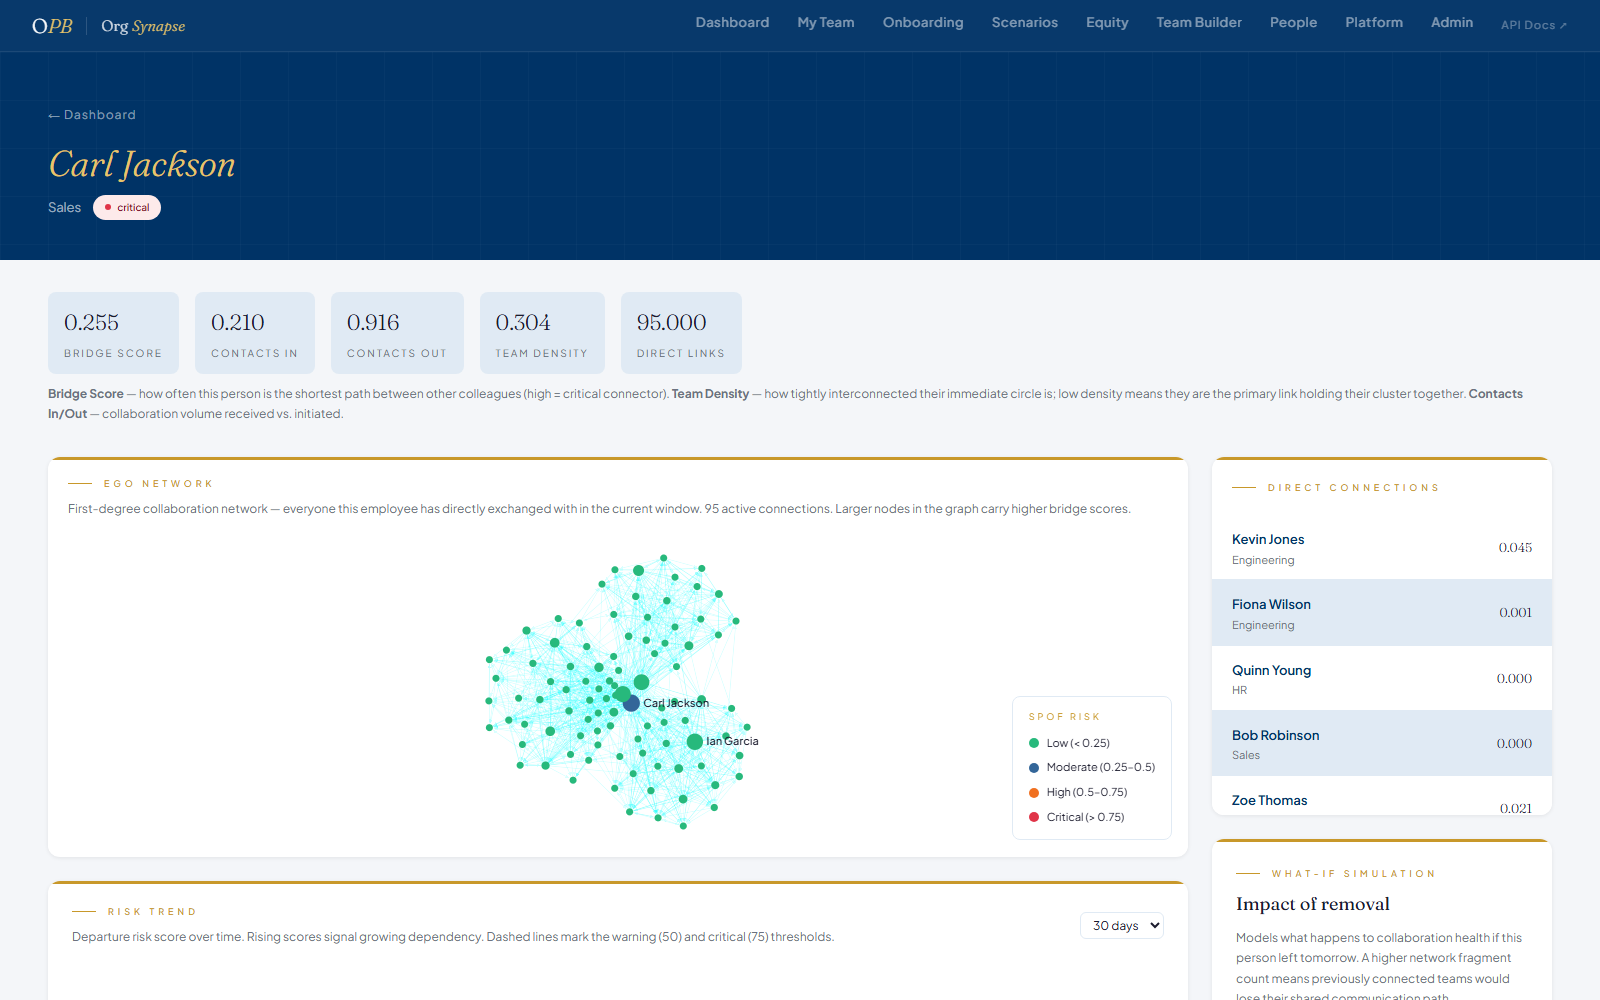
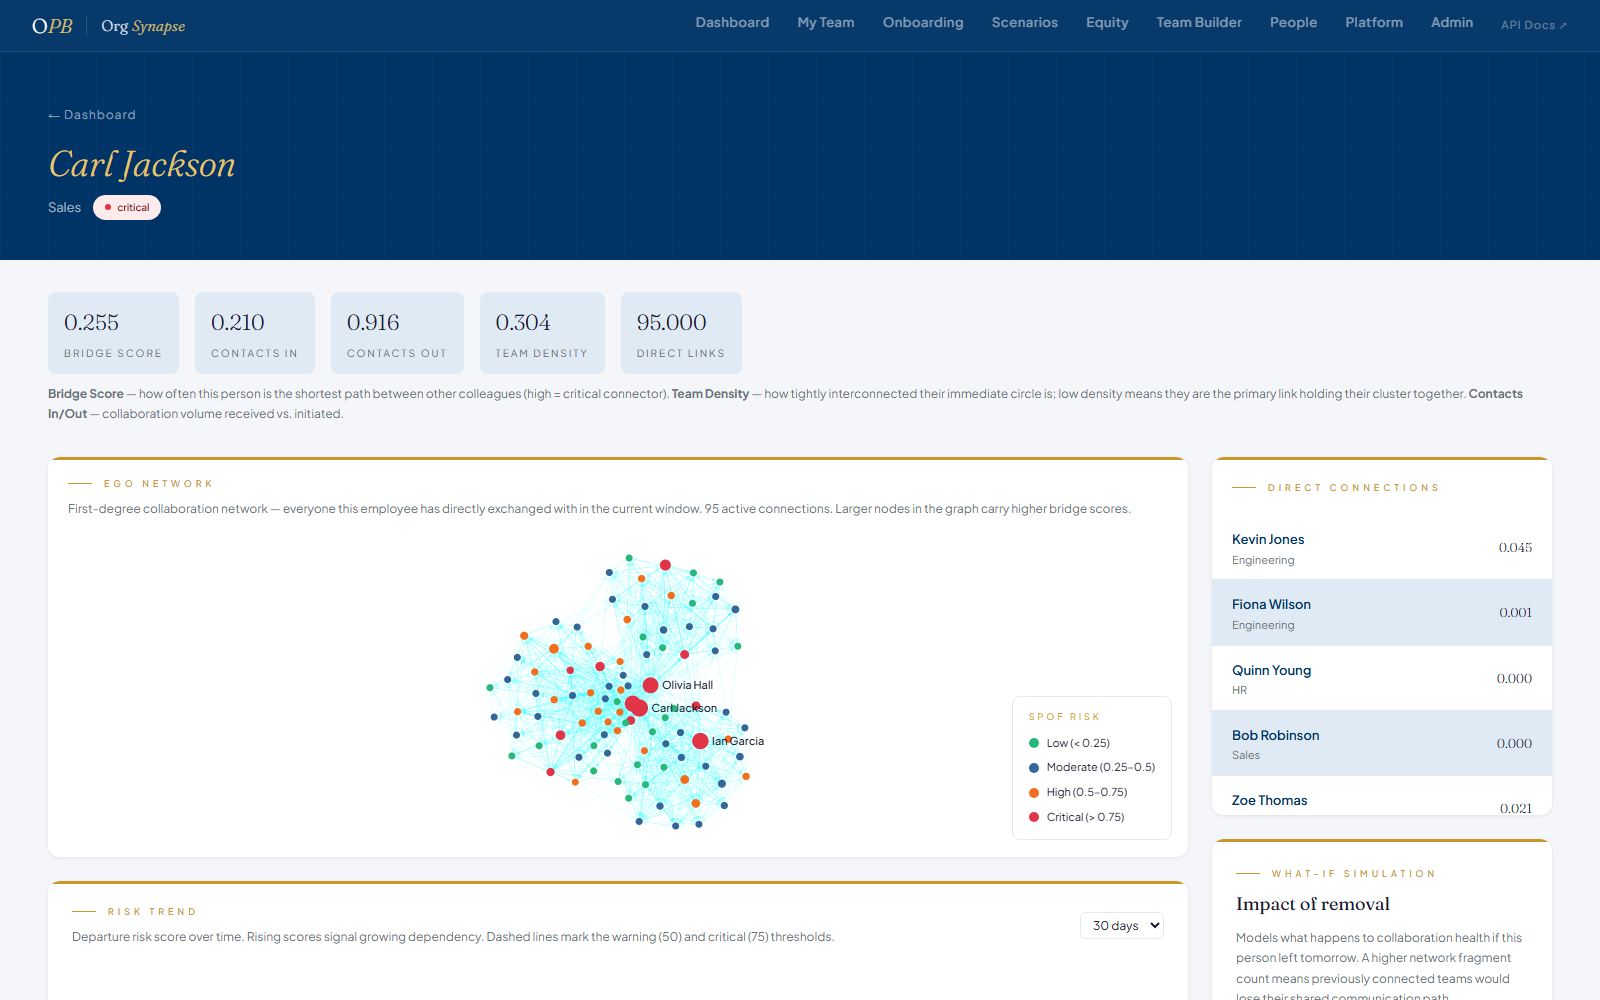
Color ego-network chart by real SPOF score, not betweenness
The ego chart on the employee page mapped spof_score = betweenness, so nodes
were colored by bridging under a "SPOF risk" legend with 0.25/0.5/0.75
thresholds that betweenness rarely reaches: nearly everyone showed green "Low".

- /graph/employee/{id}: neighbours are now EgoNode and carry their latest
  spof_score / flag / risk_scored_at, via the same lookup as the centre node,
  so every node in the chart comes from the same scoring run.
- EmployeeDetail: pass nodes through unchanged (size still = betweenness).
- OrgGraph: a missing score renders neutral grey with a "No score" legend
  entry instead of defaulting to green "Low"; Dashboard keeps unscored nodes
  null for the same reason.

Verified on the seeded app: Carl Jackson's 95 neighbours now color as
11 critical / 23 high / 39 moderate / 22 low. Tests: 512 passed, 13 skipped.

Changed region(s): [[0.2812, 0.558, 0.4688, 0.837]]

diff --git a/frontend/src/components/OrgGraph.jsx b/frontend/src/components/OrgGraph.jsx
@@ -5,8 +5,15 @@ import { SigmaContainer, useLoadGraph, useRegisterEvents } from "@react-sigma/co
 import { useWorkerLayoutForceAtlas2 } from "@react-sigma/layout-forceatlas2";
 import "@react-sigma/core/lib/react-sigma.min.css";
 
+// No score on record. Deliberately neutral grey, never the green "low" color:
+// a missing score is not evidence of low structural risk.
+const NO_SCORE_COLOR = "#B8BEC7";
+
+const hasScore = (score) => typeof score === "number" && Number.isFinite(score);
+
 // SPOF score → node color per BRAND.md spec
 function spofColor(score) {
+  if (!hasScore(score)) return NO_SCORE_COLOR;
   if (score > 0.75) return "#E03448";
   if (score > 0.5)  return "#F07020";
   if (score > 0.25) return "#336699";
@@ -30,7 +37,7 @@ function GraphLoader({ nodes, edges }) {
       graph.addNode(n.employee_id, {
         label: n.name,
         size: spofSize(n.betweenness ?? 0),
-        color: spofColor(n.spof_score ?? 0),
+        color: spofColor(n.spof_score),
         x: Math.cos(angle) * 50,
         y: Math.sin(angle) * 50,
         employeeId: n.employee_id,
@@ -227,6 +234,7 @@ export default function OrgGraph({ nodes = [], edges = [], style }) {
           { color: "#336699", label: "Moderate (0.25–0.5)" },
           { color: "#F07020", label: "High  (0.5–0.75)" },
           { color: "#E03448", label: "Critical  (> 0.75)" },
+          ...(nodes.some((n) => !hasScore(n.spof_score)) ? [{ color: NO_SCORE_COLOR, label: "No score" }] : []),
         ].map(({ color, label }) => (
           <div key={label} style={{ display: "flex", alignItems: "center", gap: "8px" }}>
             <span

diff --git a/frontend/src/pages/EmployeeDetail.jsx b/frontend/src/pages/EmployeeDetail.jsx
@@ -261,10 +261,10 @@ export default function EmployeeDetail() {
   const neighbors = egoData?.neighbors ?? [];
   const egoEdges = egoData?.edges ?? [];
 
-  // Build mini ego-graph nodes/edges for Sigma
-  const egoNodes = employee
-    ? [employee, ...neighbors].map((n) => ({ ...n, spof_score: n.betweenness ?? 0 }))
-    : [];
+  // Mini ego-graph for Sigma. Color = real SPOF score from the API (null when the
+  // person has no score on record → OrgGraph renders "no score", not "low").
+  // Node size still encodes betweenness, as the panel copy says.
+  const egoNodes = employee ? [employee, ...neighbors] : [];
 
   const chartData = (historyData?.history ?? []).map((p) => ({
     date: format(new Date(p.scored_at), "MMM d"),

diff --git a/frontend/src/pages/Dashboard.jsx b/frontend/src/pages/Dashboard.jsx
@@ -100,7 +100,8 @@ export default function Dashboard() {
 
   // Merge spof_score from risk_scores into graph nodes for color coding
   const scoreMap = Object.fromEntries(scores.map((s) => [s.employee_id, s.spof_score]));
-  const nodes = rawNodes.map((n) => ({ ...n, spof_score: scoreMap[n.employee_id] ?? 0 }));
+  // Unscored employees stay null so OrgGraph shows them as "no score", not "low".
+  const nodes = rawNodes.map((n) => ({ ...n, spof_score: scoreMap[n.employee_id] ?? null }));
   const communityCount = communityData?.community_count ?? "—";
   const siloCount = communityData?.communities?.filter((c) => c.is_silo).length ?? "—";
 

diff --git a/tests/unit/test_api.py b/tests/unit/test_api.py
@@ -213,6 +213,31 @@ def test_ego_network_node_carries_spof_flag(client):
     assert centre["risk_scored_at"] == _SNAPSHOT_DATE.isoformat()
 
 
+def test_ego_network_neighbors_carry_real_spof_score(client):
+    """Regression: the ego chart colored nodes by betweenness under a 'SPOF risk' legend.
+    Neighbours must carry their own spof_score (null when unscored)."""
+    scored = {**_NODE_ROWS[1], "spof_score": 0.62, "flag": "warning", "risk_scored_at": _SNAPSHOT_DATE}
+    unscored = {
+        **_NODE_ROWS[1],
+        "employee_id": _EMP_C,
+        "name": "Carol",
+        "spof_score": None,
+        "flag": None,
+        "risk_scored_at": None,
+    }
+    ego = {"node": _NODE_ROWS[0], "neighbors": [scored, unscored], "edges": _EDGE_ROWS}
+    with (
+        patch("api.routers.graph.queries.fetch_latest_snapshot_date", return_value=_SNAPSHOT_DATE),
+        patch("api.routers.graph.queries.fetch_ego_network", return_value=ego),
+    ):
+        resp = client.get(f"/graph/employee/{_EMP_A}")
+    assert resp.status_code == 200
+    by_id = {n["employee_id"]: n for n in resp.json()["neighbors"]}
+    assert by_id[scored["employee_id"]]["spof_score"] == 0.62
+    assert by_id[scored["employee_id"]]["spof_score"] != scored["betweenness"]
+    assert by_id[unscored["employee_id"]]["spof_score"] is None
+
+
 def test_ego_network_unscored_employee_has_null_flag_not_normal(client):
     """No risk score on record must surface as null (UI: 'unknown'), never 'normal'."""
     node = {**_NODE_ROWS[0], "spof_score": None, "flag": None, "risk_scored_at": None}

diff --git a/api/db.py b/api/db.py
@@ -170,13 +170,26 @@ def fetch_ego_network(
                     gs.degree_in,
                     gs.degree_out,
                     gs.clustering,
-                    gs.community_id
+                    gs.community_id,
+                    rs.spof_score,
+                    rs.flag,
+                    rs.scored_at::date AS risk_scored_at
                 FROM graph_snapshots gs
                 JOIN employees e ON gs.employee_id = e.id
+                -- Same lookup as the centre node, so every node in the ego
+                -- chart is colored from the same scoring run (NULLs if unscored).
+                LEFT JOIN LATERAL (
+                    SELECT r.spof_score, r.flag, r.scored_at
+                    FROM risk_scores r
+                    WHERE r.employee_id = gs.employee_id
+                      AND r.scored_at::date <= %s
+                    ORDER BY r.scored_at DESC
+                    LIMIT 1
+                ) rs ON TRUE
                 WHERE gs.snapshot_date = %s
                   AND gs.employee_id = ANY(%s::uuid[])
                 """,
-                (snapshot_date, neighbor_ids),
+                (snapshot_date, snapshot_date, neighbor_ids),
             )
             neighbors = [dict(r) for r in cur.fetchall()]
     else:

diff --git a/api/models/schemas.py b/api/models/schemas.py
@@ -56,7 +56,7 @@ class CommunitiesResponse(BaseModel):
 
 
 class EgoNode(NodeMetrics):
-    """Centre node of an ego network, enriched with its latest SPOF risk.
+    """Ego-network node (centre or neighbour), enriched with its latest SPOF risk.
 
     ``flag`` / ``spof_score`` are None when the employee has no risk score on or
     before the snapshot date — clients must render that as *unknown*, never as
@@ -72,7 +72,7 @@ class EgoNetwork(BaseModel):
     employee_id: str
     snapshot_date: date
     node: EgoNode
-    neighbors: list[NodeMetrics]
+    neighbors: list[EgoNode]
     edges: list[GraphEdge]
 
 

diff --git a/api/routers/graph.py b/api/routers/graph.py
@@ -125,7 +125,7 @@ def get_employee_ego_network(
         employee_id=employee_id,
         snapshot_date=snapshot_date,
         node=EgoNode(**ego["node"]),
-        neighbors=[NodeMetrics(**n) for n in ego["neighbors"]],
+        neighbors=[EgoNode(**n) for n in ego["neighbors"]],
         edges=[GraphEdge(**e) for e in ego["edges"]],
     )
 

diff --git a/docs/LESSONS_LEARNED.md b/docs/LESSONS_LEARNED.md
@@ -109,7 +109,7 @@ Observed while capturing the screenshots in these docs (seeded demo, 120 employe
 ### 3.1 The riskiest person displayed as "normal" ✅
 **What happened:** On the employee profile, the badge reads `employee.spof_flag ?? employee.flag ?? "normal"`. `/graph/employee/{id}` returns neither field, so **every profile shows "normal"**. That includes Carl Jackson, the #1 SPOF in the org at 0.90, shown as critical in the roster (see [employee-detail.png](screenshots/employee-detail.png)). The badge component also has no style for `critical_uncertain` or `elevated`.
 **Lesson:** Never default a risk label to the safe value. Show "unknown" when the data is missing.
-**Changed:** the endpoint returns the latest `spof_score`, `flag` and `risk_scored_at` for the centre node, and a shared [`spofFlag.js`](../frontend/src/lib/spofFlag.js) styles all six flags, with "unknown" when none is on record. *Still open:* the ego-network chart colors nodes by betweenness while its legend says "SPOF risk".
+**Changed:** the endpoint returns the latest `spof_score`, `flag` and `risk_scored_at` for the centre node, and a shared [`spofFlag.js`](../frontend/src/lib/spofFlag.js) styles all six flags, with "unknown" when none is on record. The same problem showed up in the ego-network chart, which colored nodes by *betweenness* under a "SPOF risk" legend, so nearly everyone looked green. Neighbours now carry their own latest SPOF score from the same scoring run, and `OrgGraph` draws unscored people in neutral grey with a "No score" legend entry instead of green "Low".
 
 ### 3.2 Two "engagement" signals that disagree 🟡
 **What happened:** The roster shows many direct reports with **High** leave risk (derived from entropy trend). The manager view for the same team shows all 34 as **Engaged** ([manager-view.png](screenshots/manager-view.png)).
@@ -153,7 +153,7 @@ Observed while capturing the screenshots in these docs (seeded demo, 120 employe
 
 ## 5. Open items, ranked
 
-Resolved in November 2026: dependency pins and boot smoke test (2.1), tenants provisioned from migrations (2.2), profile risk badge (3.1), equity small-group suppression (3.5).
+Resolved in November 2026: dependency pins and boot smoke test (2.1), tenants provisioned from migrations (2.2), profile risk badge and ego-network chart coloring (3.1), equity small-group suppression (3.5).
 
 | # | Item | Lesson | Effort |
 |---|---|---|---|
@@ -162,9 +162,8 @@ Resolved in November 2026: dependency pins and boot smoke test (2.1), tenants pr
 | 3 | Fix and re-enable `test_tenant.py`, `test_compliance.py` | 2.8 | S |
 | 4 | Isolate cache unit tests from a live local Redis (two tests fail when one is running on :6379) | 2.8 | S |
 | 5 | Unify the dashboard silo KPI with department-level alerts | 3.3 | S |
-| 6 | Color the ego-network chart by real SPOF, not betweenness | 3.1 | S |
-| 7 | Make `seed_dev.py` idempotent; seed recent hires and score history | 2.5, 3.4 | M |
-| 8 | Reconcile the remaining MATH_MODEL §12 differences | 4.1 | M |
+| 6 | Make `seed_dev.py` idempotent; seed recent hires and score history | 2.5, 3.4 | M |
+| 7 | Reconcile the remaining MATH_MODEL §12 differences | 4.1 | M |
 
 ---
 
